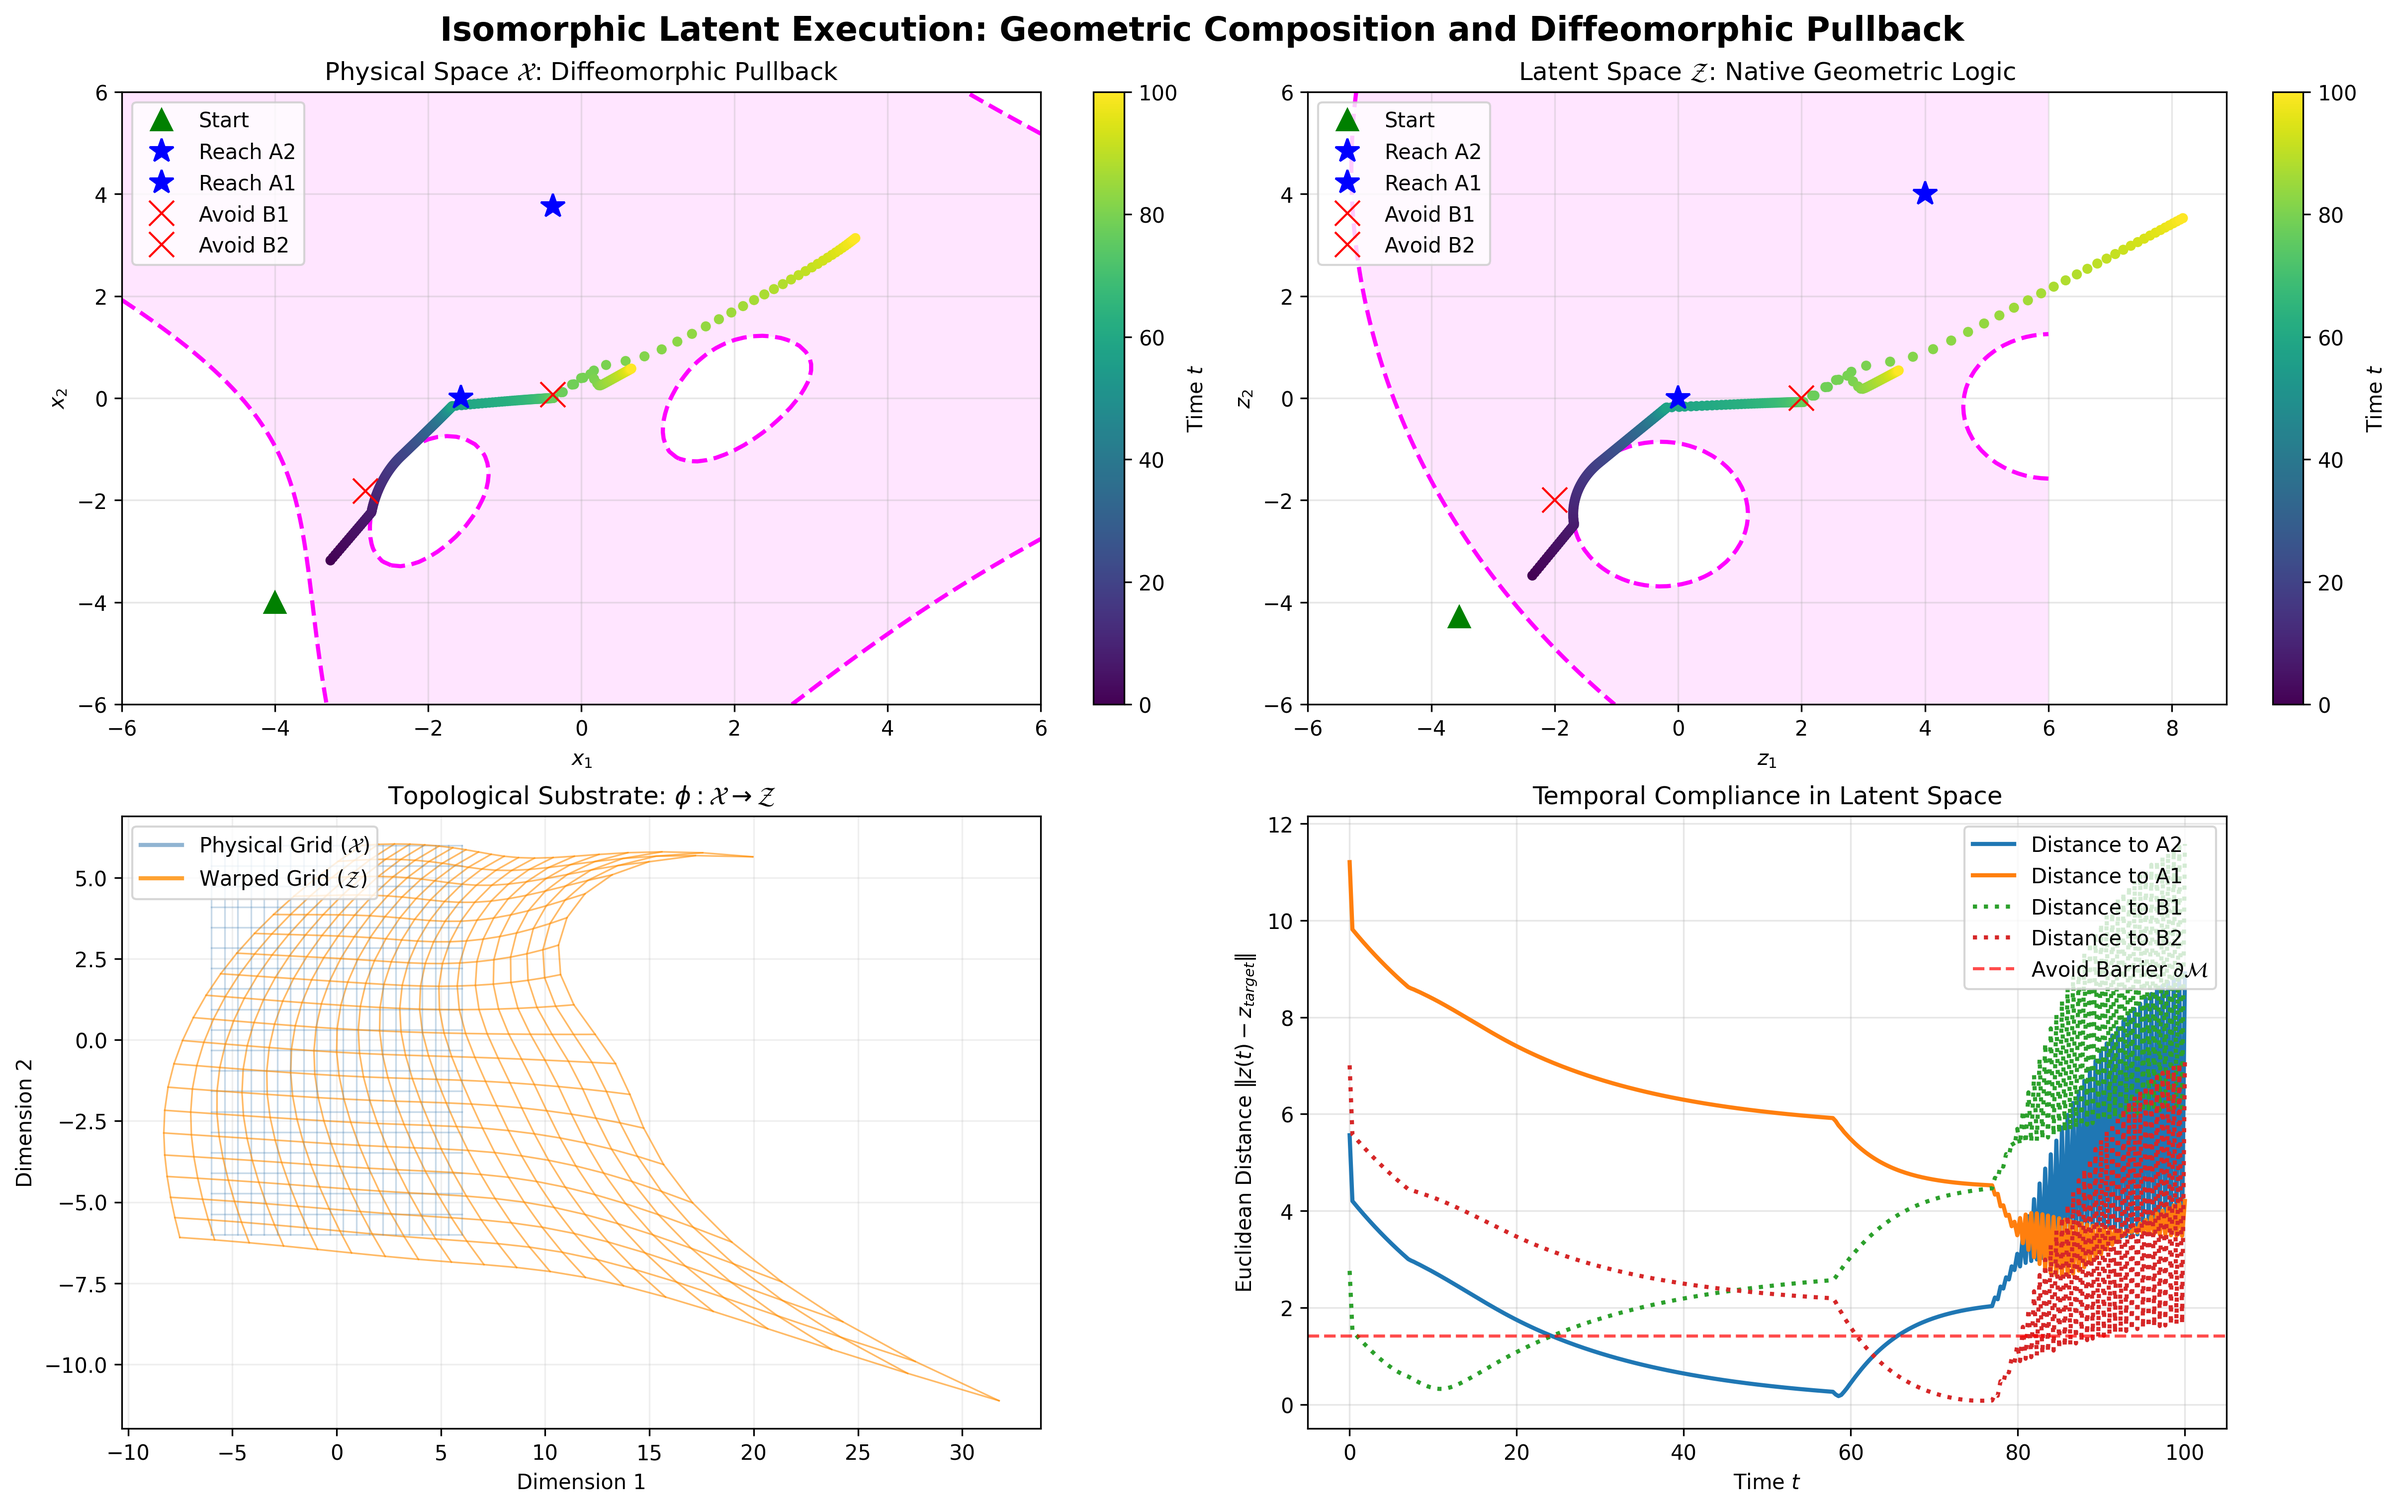
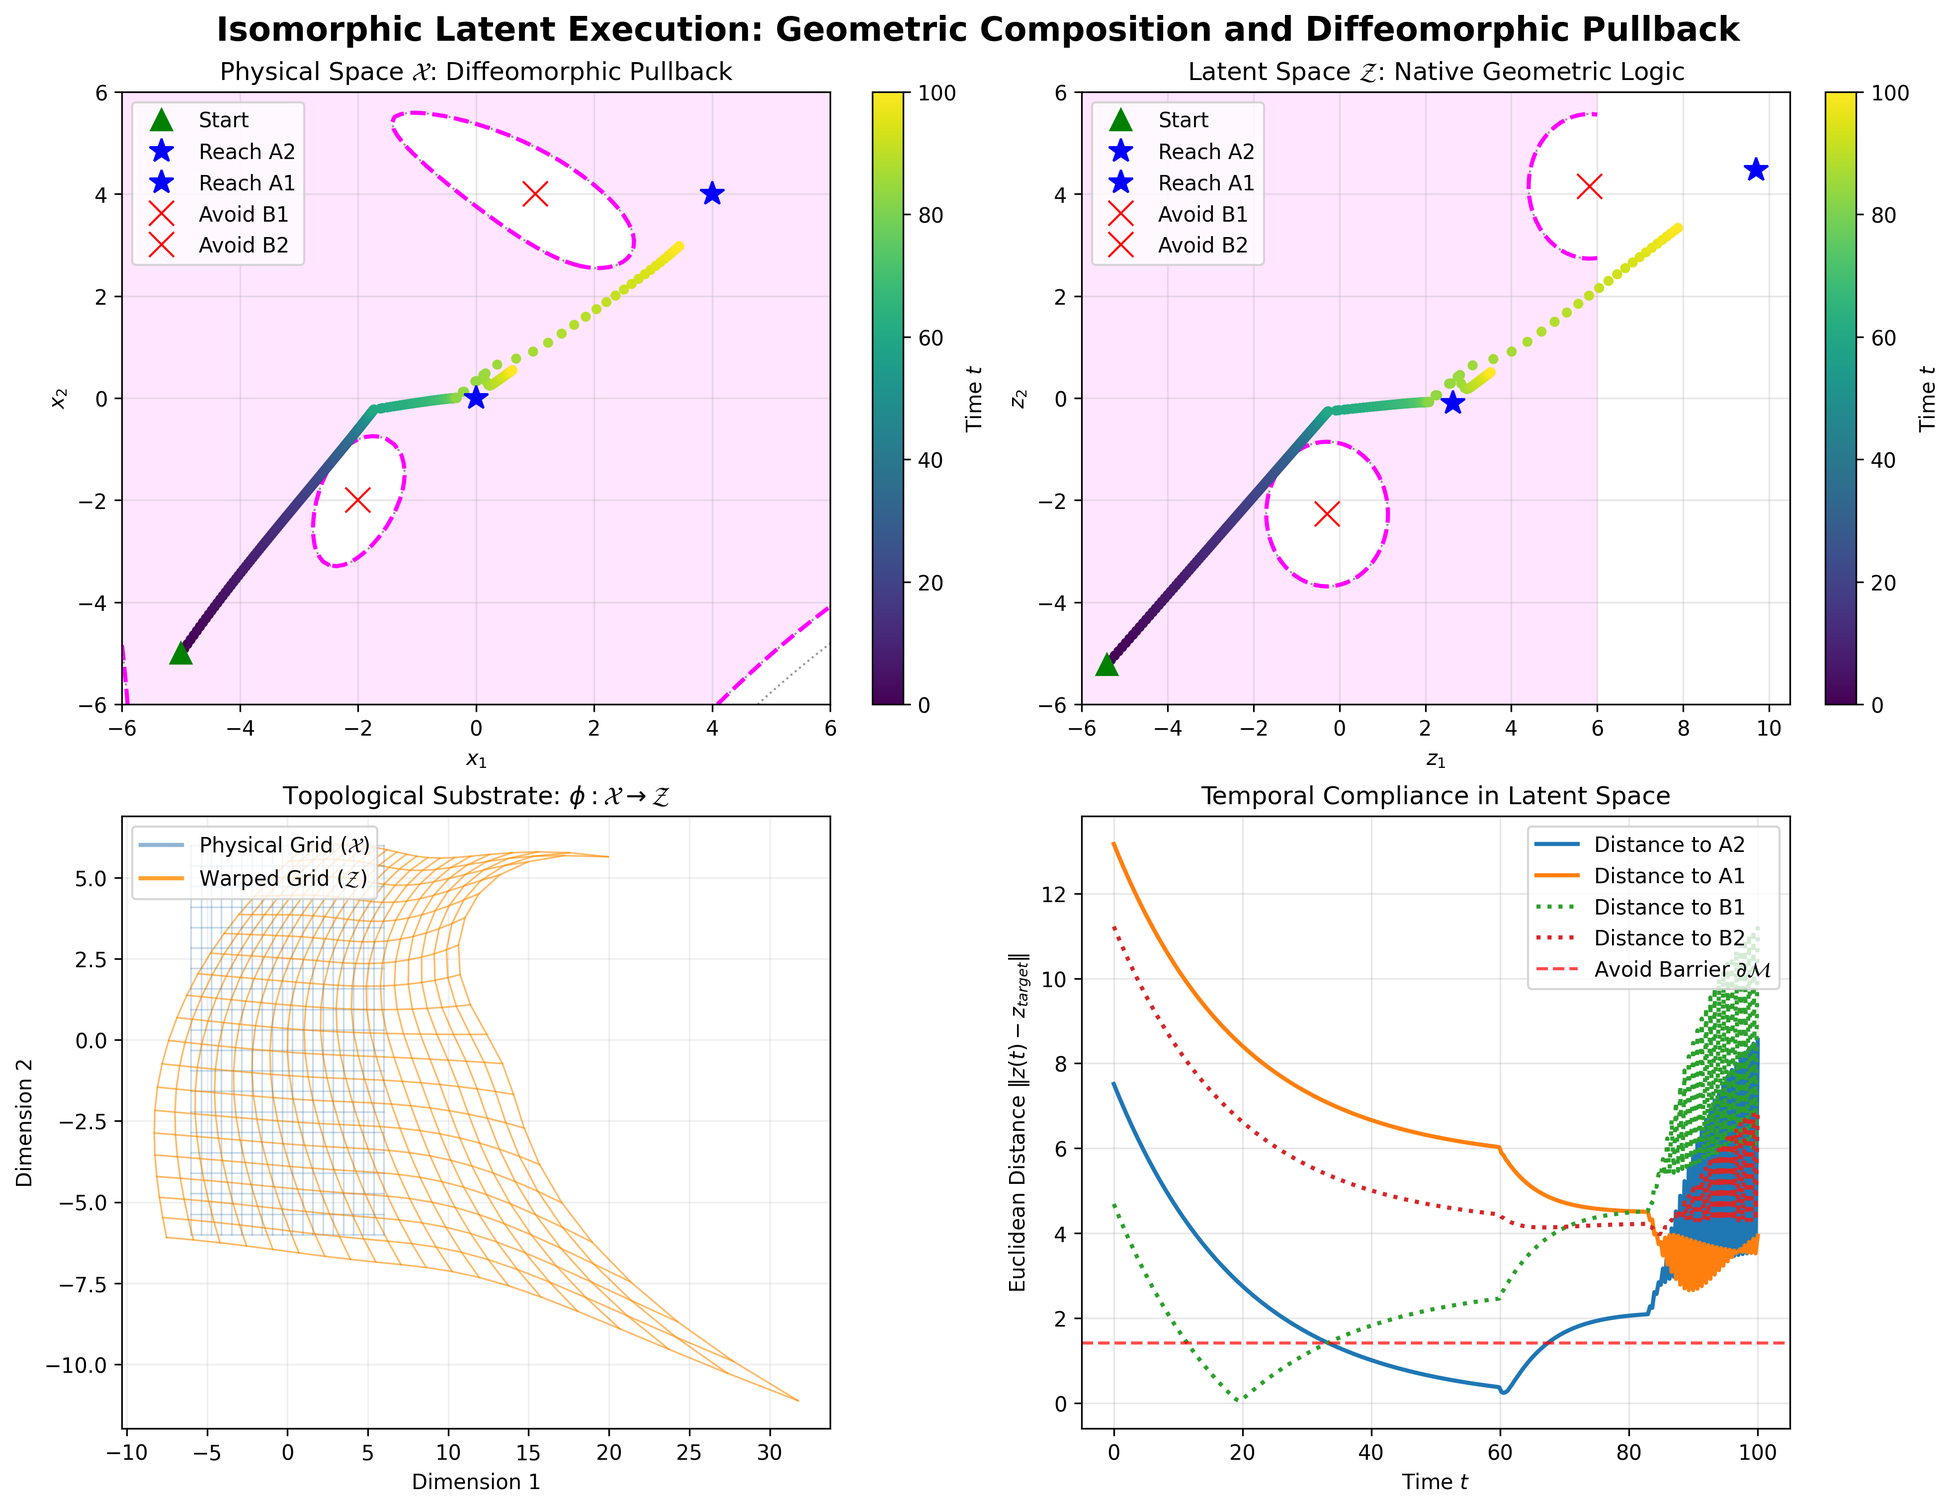
final commit

diff --git a/src/viz.py b/src/viz.py
@@ -30,6 +30,11 @@ def plot_manifold_level_sets(ax, phi, formula, space='Z', t_eval=0.0, grid_limit
         # Compute the global composed barrier function
         h_vals = formula.compute_h(z_pts, t_tensor)
         
+        # Compute individual predicate manifolds if composed
+        child_h_vals = []
+        if hasattr(formula, 'children'):
+            child_h_vals = [child.compute_h(z_pts, t_tensor) for child in formula.children]
+        
     H_grid = h_vals.numpy().reshape(grid_n, grid_n)
 
     # Plot the strict zero-level set boundary (h = 0)
@@ -38,6 +43,11 @@ def plot_manifold_level_sets(ax, phi, formula, space='Z', t_eval=0.0, grid_limit
     
     # Fill the valid region (h > 0) to highlight the safe manifold
     ax.contourf(Xg, Yg, H_grid, levels=[0.01, np.inf], colors='magenta', alpha=0.1, zorder=1)
+    
+    # Plot individual predicate manifolds
+    for child_h in child_h_vals:
+        child_H_grid = child_h.numpy().reshape(grid_n, grid_n)
+        ax.contour(Xg, Yg, child_H_grid, levels=[0.01], colors='gray', linewidths=1.0, zorder=1, linestyles='dotted', alpha=0.8)
     
     return contour
 
@@ -50,10 +60,10 @@ def plot_full_analysis(phi, z_traj, x_traj, time_steps, start_state, reach_targe
                  fontsize=16, fontweight="bold")
     gs = gridspec.GridSpec(2, 2, figure=fig)
 
-    # Precompute target preimages for physical space tracking
+    # 1. Forward map the physical targets to latent coordinates for Z-space tracking
     with torch.no_grad():
-        x_stars_reach = {name: phi.inverse(torch.tensor([pos], dtype=torch.float32)).squeeze().numpy() for name, pos in reach_targets.items()}
-        x_stars_avoid = {name: phi.inverse(torch.tensor([pos], dtype=torch.float32)).squeeze().numpy() for name, pos in avoid_targets.items()}
+        z_stars_reach = {name: phi(torch.tensor([pos], dtype=torch.float32)).squeeze().numpy() for name, pos in reach_targets.items()}
+        z_stars_avoid = {name: phi(torch.tensor([pos], dtype=torch.float32)).squeeze().numpy() for name, pos in avoid_targets.items()}
         
     z_start = z_traj[0]
 
@@ -61,15 +71,14 @@ def plot_full_analysis(phi, z_traj, x_traj, time_steps, start_state, reach_targe
     ax1 = fig.add_subplot(gs[0, 0])
     ax1.set_title("Physical Space $\mathcal{X}$: Diffeomorphic Pullback")
     
-    # Plot the composed logic manifold pulled back to physical space at t=0
     plot_manifold_level_sets(ax1, phi, formula, space='X', t_eval=time_steps[0], grid_limits=grid_limits, grid_n=100)
-    
     sc1 = ax1.scatter(x_traj[:, 0], x_traj[:, 1], c=time_steps, cmap="viridis", s=15, zorder=4)
     ax1.plot(*start_state, "g^", markersize=10, zorder=5, label="Start")
     
-    for name, pos in x_stars_reach.items():
+    # Plot raw config targets directly in physical space
+    for name, pos in reach_targets.items():
         ax1.plot(*pos, "b*", markersize=12, zorder=5, label=f"Reach {name}")
-    for name, pos in x_stars_avoid.items():
+    for name, pos in avoid_targets.items():
         ax1.plot(*pos, "rx", markersize=12, zorder=5, label=f"Avoid {name}")
     
     ax1.set_xlabel("$x_1$"); ax1.set_ylabel("$x_2$")
@@ -80,21 +89,19 @@ def plot_full_analysis(phi, z_traj, x_traj, time_steps, start_state, reach_targe
     ax2 = fig.add_subplot(gs[0, 1])
     ax2.set_title("Latent Space $\mathcal{Z}$: Native Geometric Logic")
     
-    # Plot the composed logic manifold in its native latent topology at t=0
     plot_manifold_level_sets(ax2, phi, formula, space='Z', t_eval=time_steps[0], grid_limits=grid_limits, grid_n=100)
-    
     sc2 = ax2.scatter(z_traj[:, 0], z_traj[:, 1], c=time_steps, cmap="viridis", s=15, zorder=4)
     ax2.plot(*z_start, "g^", markersize=10, zorder=5, label="Start")
     
-    for name, pos in reach_targets.items():
+    # Plot forward-mapped targets in latent space
+    for name, pos in z_stars_reach.items():
         ax2.plot(*pos, "b*", markersize=12, zorder=5, label=f"Reach {name}")
-    for name, pos in avoid_targets.items():
+    for name, pos in z_stars_avoid.items():
         ax2.plot(*pos, "rx", markersize=12, zorder=5, label=f"Avoid {name}")
 
     ax2.set_xlabel("$z_1$"); ax2.set_ylabel("$z_2$")
     ax2.legend(loc="upper left"); ax2.grid(True, alpha=0.3)
     fig.colorbar(sc2, ax=ax2, label="Time $t$")
-
     # 3. Diffeomorphism Grid Warp
     ax3 = fig.add_subplot(gs[1, 0])
     ax3.set_title("Topological Substrate: $\phi: \mathcal{X} \\to \mathcal{Z}$")

diff --git a/src/stl.py b/src/stl.py
@@ -15,7 +15,7 @@ class Avoid(STLNode):
         return torch.norm(z - self.target, dim=-1)**2 - self.margin
 
 class Eventually(STLNode):
-    def __init__(self, target, t_end, initial_radius=15.0, final_radius=0.5):
+    def __init__(self, target, t_end, initial_radius=20.0, final_radius=0.5):
         self.target = torch.tensor(target, dtype=torch.float32)
         self.t_end = t_end
         self.r_start = initial_radius
